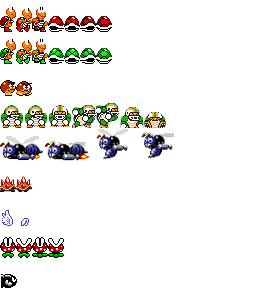
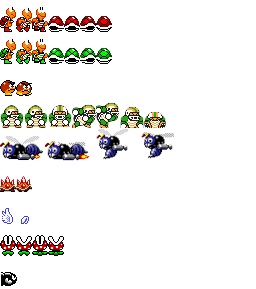
misc.
Fox win pic dimensions fix

coins become rings when sonic is used

piranha plant pic cutoff fix

sonic world map displaying fire mario fix

Changed region(s): [[0.0, 0.8097, 0.25, 0.9031], [0.0, 0.7163, 0.125, 0.7785], [0.0, 0.9343, 0.0625, 0.9965]]

diff --git a/code/levelRenderer.js b/code/levelRenderer.js
@@ -74,7 +74,12 @@ Mario.LevelRenderer.prototype.DrawDynamic = function (context, camera) {
                     yo = (Math.sin((yo - this.Delta) / 4 * Math.PI) * 8) | 0;
                 }
                 frame = this.Background[(((b % 16) / 4) | 0) * 4 + animTime][(b / 16) | 0];
-                context.drawImage(Enjine.Resources.Images["map"], frame.X, frame.Y, frame.Width, frame.Height, (x << 4) - camera.X, (y << 4) - camera.Y - yo, frame.Width, frame.Height);
+                if (Mario.MarioCharacter.character_select == "sonic") {
+                    context.drawImage(Enjine.Resources.Images["ringmap"], frame.X, frame.Y, frame.Width, frame.Height, (x << 4) - camera.X, (y << 4) - camera.Y - yo, frame.Width, frame.Height);
+                }
+                else {
+                    context.drawImage(Enjine.Resources.Images["map"], frame.X, frame.Y, frame.Width, frame.Height, (x << 4) - camera.X, (y << 4) - camera.Y - yo, frame.Width, frame.Height);
+                }
             }
         }
     }

diff --git a/code/loadingState.js b/code/loadingState.js
@@ -16,7 +16,7 @@ Mario.LoadingState.prototype = new Enjine.GameState();
 
 Mario.LoadingState.prototype.Enter = function () {
     var i = 0;
-    for (i = 0; i <= 51; i++) {
+    for (i = 0; i <= 52; i++) {
         this.Images[i] = {};
     }
 
@@ -72,6 +72,7 @@ Mario.LoadingState.prototype.Enter = function () {
     this.Images[49].name = "smallMrLsheet";
     this.Images[50].name = "MrLmapsheet";
     this.Images[51].name = "buzzshot";
+    this.Images[52].name = "ringmap";
 
     this.Images[0].src = "images/level/default/bgsheet.png";
     this.Images[1].src = "images/menu/endscene.gif";
@@ -125,6 +126,7 @@ Mario.LoadingState.prototype.Enter = function () {
     this.Images[49].src = "images/character/luigi/smallmrLsheet.png";
     this.Images[50].src = "images/worldmap/mrLworldmap.png";
     this.Images[51].src = "images/enemies/buzzshot.png";
+    this.Images[52].src = "images/level/default/ringmapsheet.png";
 
     Enjine.Resources.AddImages(this.Images);
 

diff --git a/code/character.js b/code/character.js
@@ -1645,6 +1645,11 @@ Mario.Character.prototype.Win = function () {
     this.WinTime = 1;
     if (this.character_select == "fox") {
         this.SetLarge(false, false);
+        this.PicWidth = 36;
+        this.PicHeight = 50;
+    }
+    if (this.character_select == "sonic") {
+        this.SetLarge(false, false);
         this.PicWidth = this.PicHeight = 32;
     }
     Enjine.Resources.PlaySound("exit");
@@ -1727,7 +1732,7 @@ Mario.Character.prototype.GetMushroom = function () {
             if (i % 2 == 0) {
                 this.GetCoin();
                 Enjine.Resources.PlaySound("coin");
-                this.World.AddSprite(new Mario.CoinAnim(this.World, x, y + ((Math.random() * 0.5) * (Math.random() * -1))));
+                this.World.AddSprite(new Mario.CoinAnim(this.World, x, y + ((Math.random() * 2) * (Math.random() * 2))));
             }
         }
     }

diff --git a/code/coinAnim.js b/code/coinAnim.js
@@ -7,6 +7,9 @@ Mario.CoinAnim = function (world, x, y) {
     this.World = world;
     this.Life = 10;
     this.Image = Enjine.Resources.Images["map"];
+    if (Mario.MarioCharacter.character_select == "sonic") {
+        this.Image = Enjine.Resources.Images["ringmap"];
+    }
     this.PicWidth = this.PicHeight = 16;
     this.X = x * 16;
     this.Y = y * 16 - 16;

diff --git a/code/rings.js b/code/rings.js
@@ -6,7 +6,7 @@
 Mario.Rings = function (world, x, y, Xa, Ya) {
     this.World = world;
     this.Life = 80;
-    this.Image = Enjine.Resources.Images["map"];
+    this.Image = Enjine.Resources.Images["ringmap"];
     this.PicWidth = this.PicHeight = 16;
     this.X = x;
     this.Y = y;
